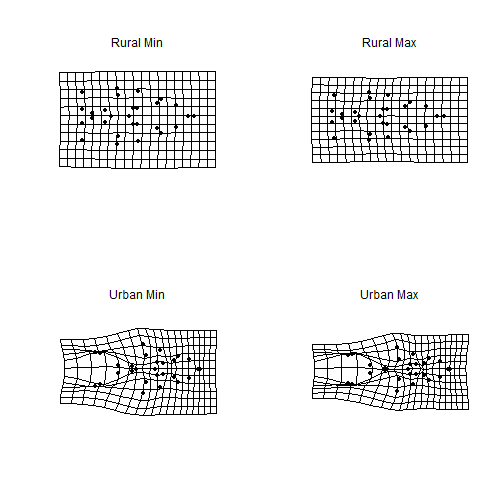
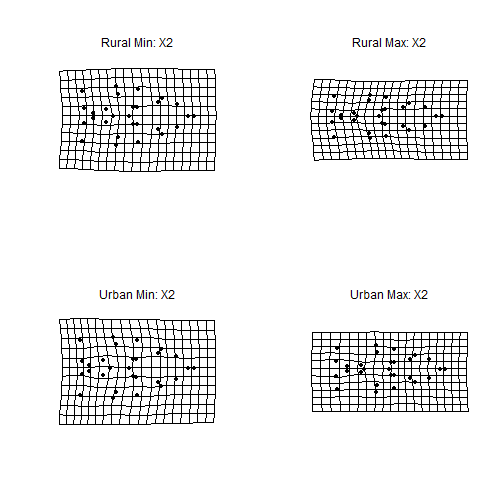
allomettry

diff --git a/GMcourse/Lectures/07-Allometry.html b/GMcourse/Lectures/07-Allometry.html
@@ -298,19 +298,17 @@ anova(fit)$table
 .pull-left[
 
 ```r
-X &lt;- fit$X
-X &lt;- X[,-1]
-CS.min.max &lt;- by(gdf$CS,gdf$type,range)
-R.min &lt;- c(CS.min.max$R[1], 0, 0)
-R.max &lt;- c(CS.min.max$R[2], 0, 0)
-U.min &lt;- c(CS.min.max$U[1], 0, CS.min.max$U[1])
-U.max &lt;- c(CS.min.max$U[2], 0, CS.min.max$U[2])
+shape.gps &lt;- coords.subset(fit$GM$fitted,type)
+CS.R &lt;- gdf$CS[which(type=="R")]
+CS.U &lt;-   gdf$CS[which(type=="U")]
+mn &lt;- Map(function(x) mshape(x),shape.gps)
 
-preds &lt;- shape.predictor(fit$GM$fitted, x= X, Intercept = TRUE, 
-                         predmin.r = R.min, 
-                         predmax.r = R.max,
-                         predmin.u = U.min, 
-                         predmax.u = U.max) 
+predsR &lt;- shape.predictor(shape.gps$R,x = CS.R, Intercept = TRUE,
+                          predmin = min(CS.R),
+                          predmax = max(CS.R))
+predsU &lt;- shape.predictor(shape.gps$U,x = CS.U, Intercept = TRUE,
+                          predmin = min(CS.U),
+                          predmax = max(CS.U))
 M &lt;- mshape(Y.gpa$coords)
 ```
 
